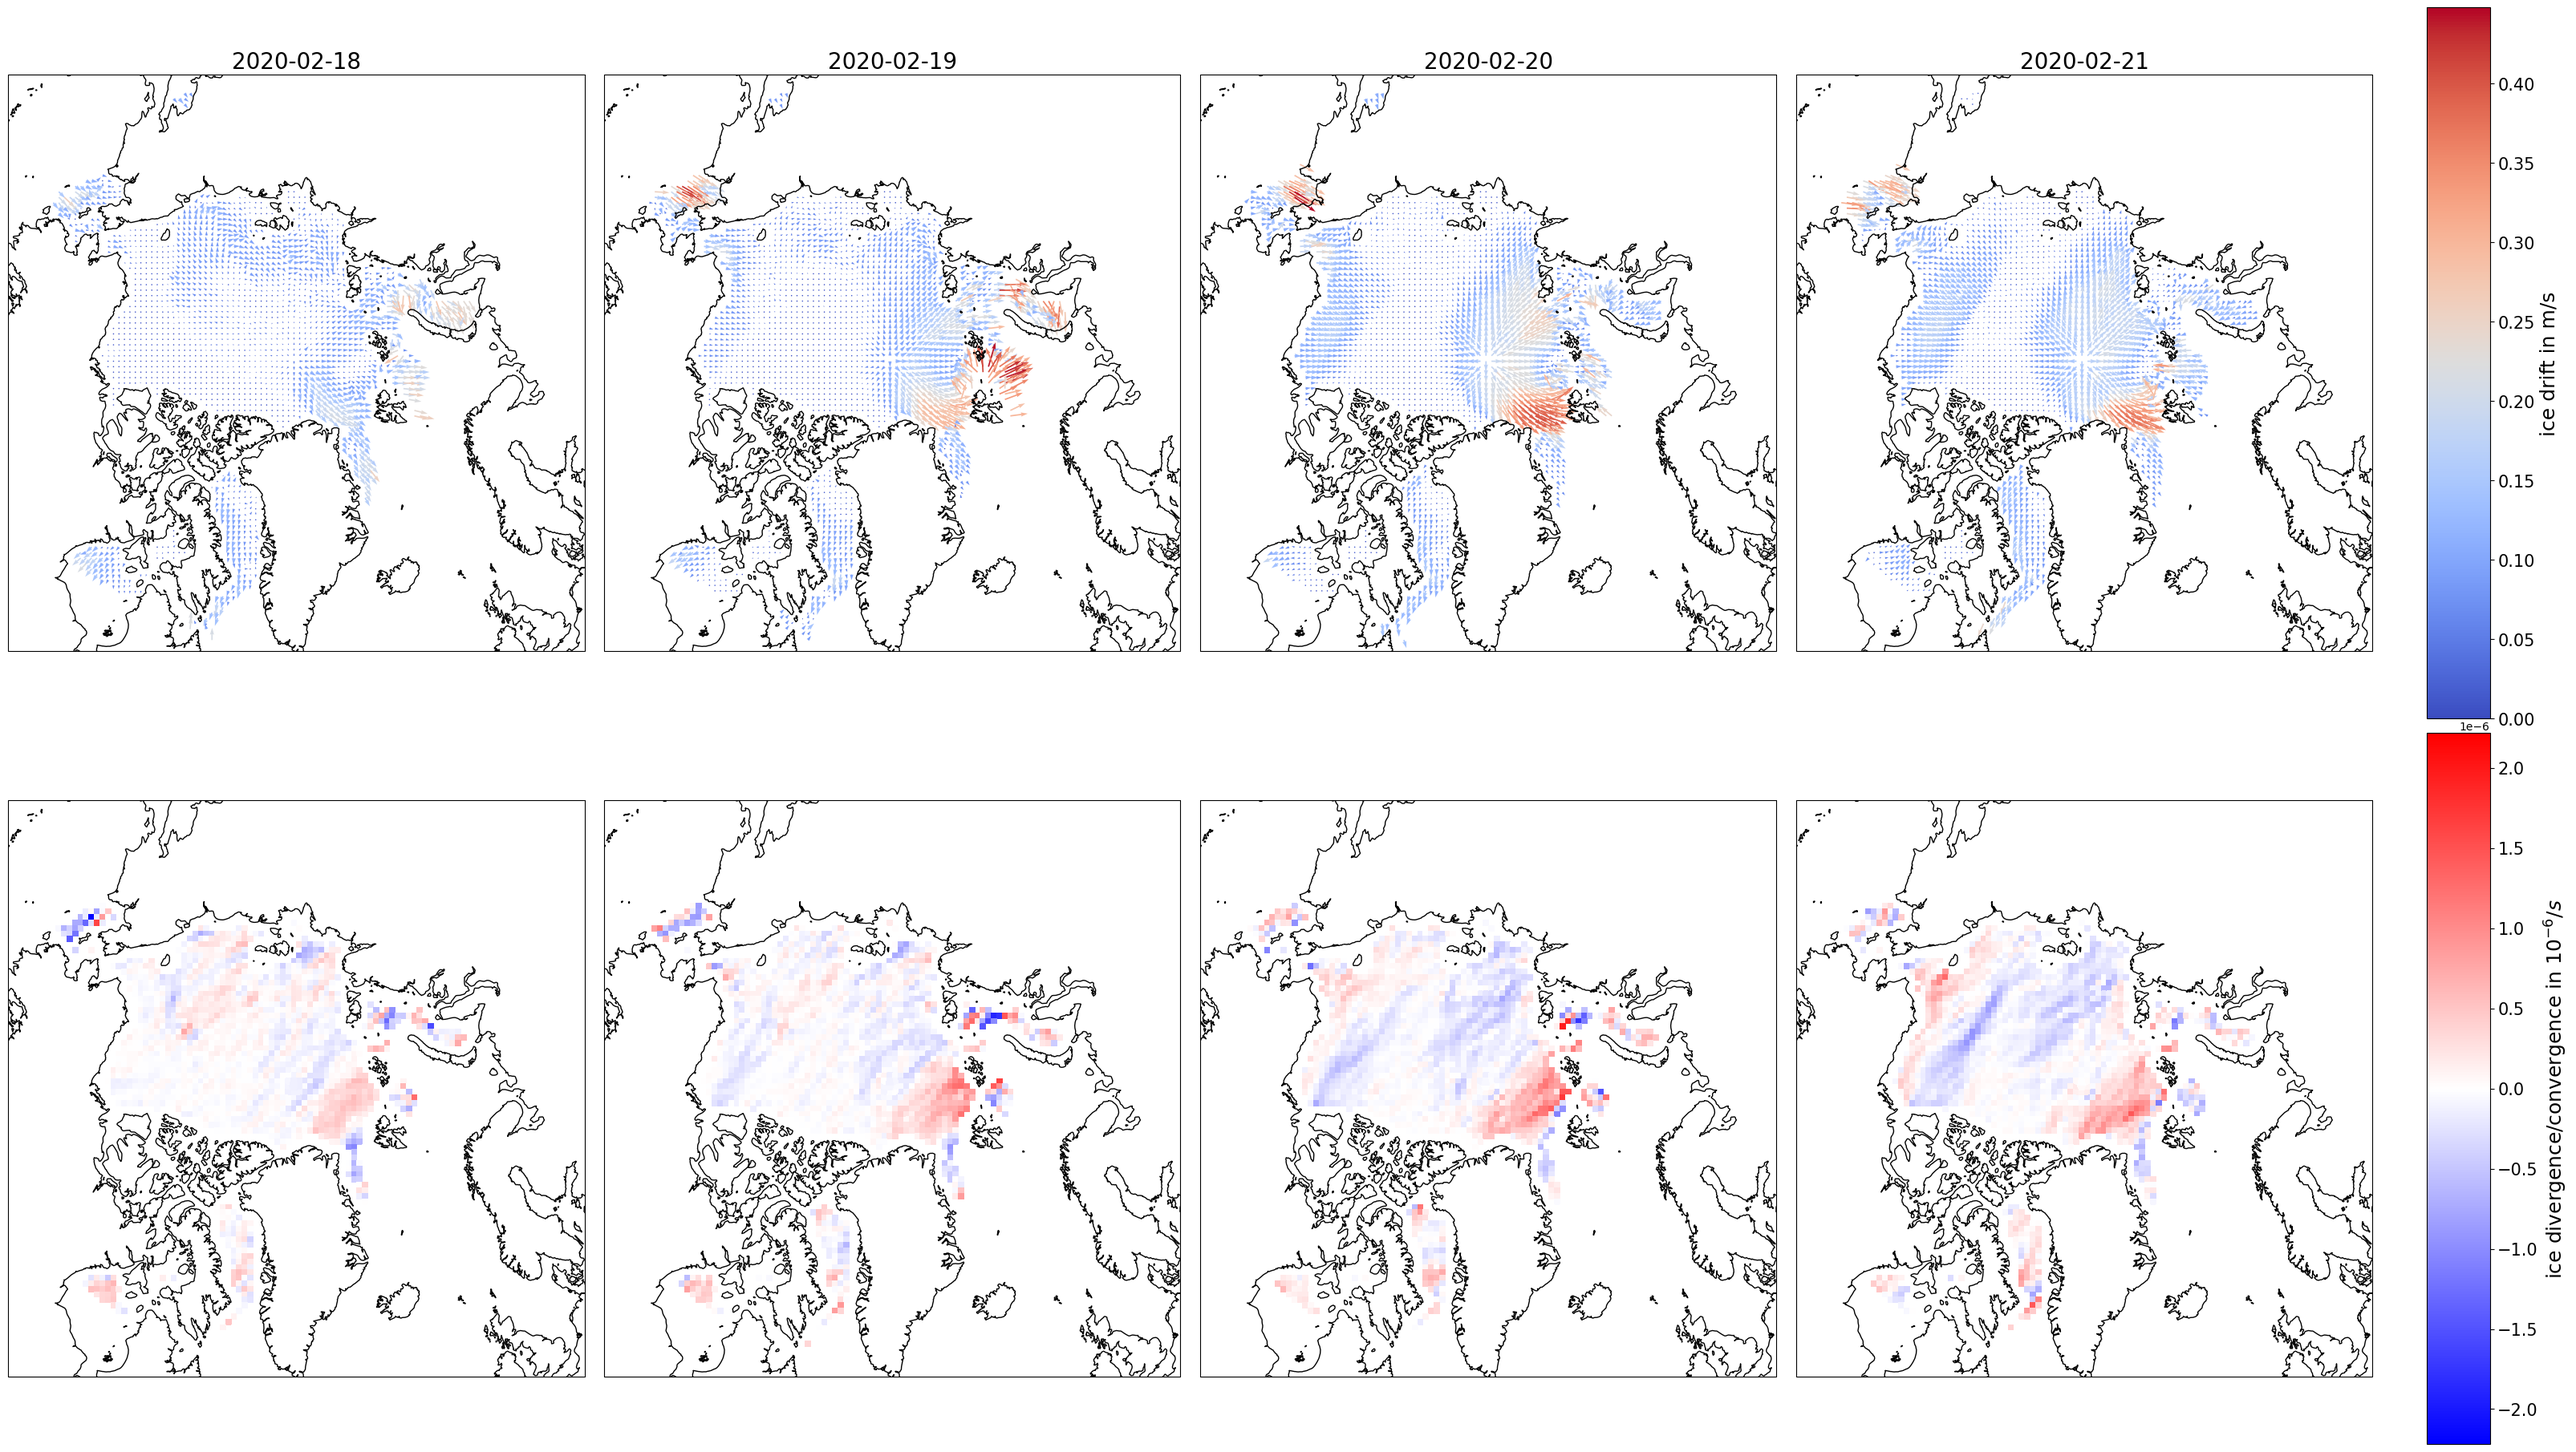
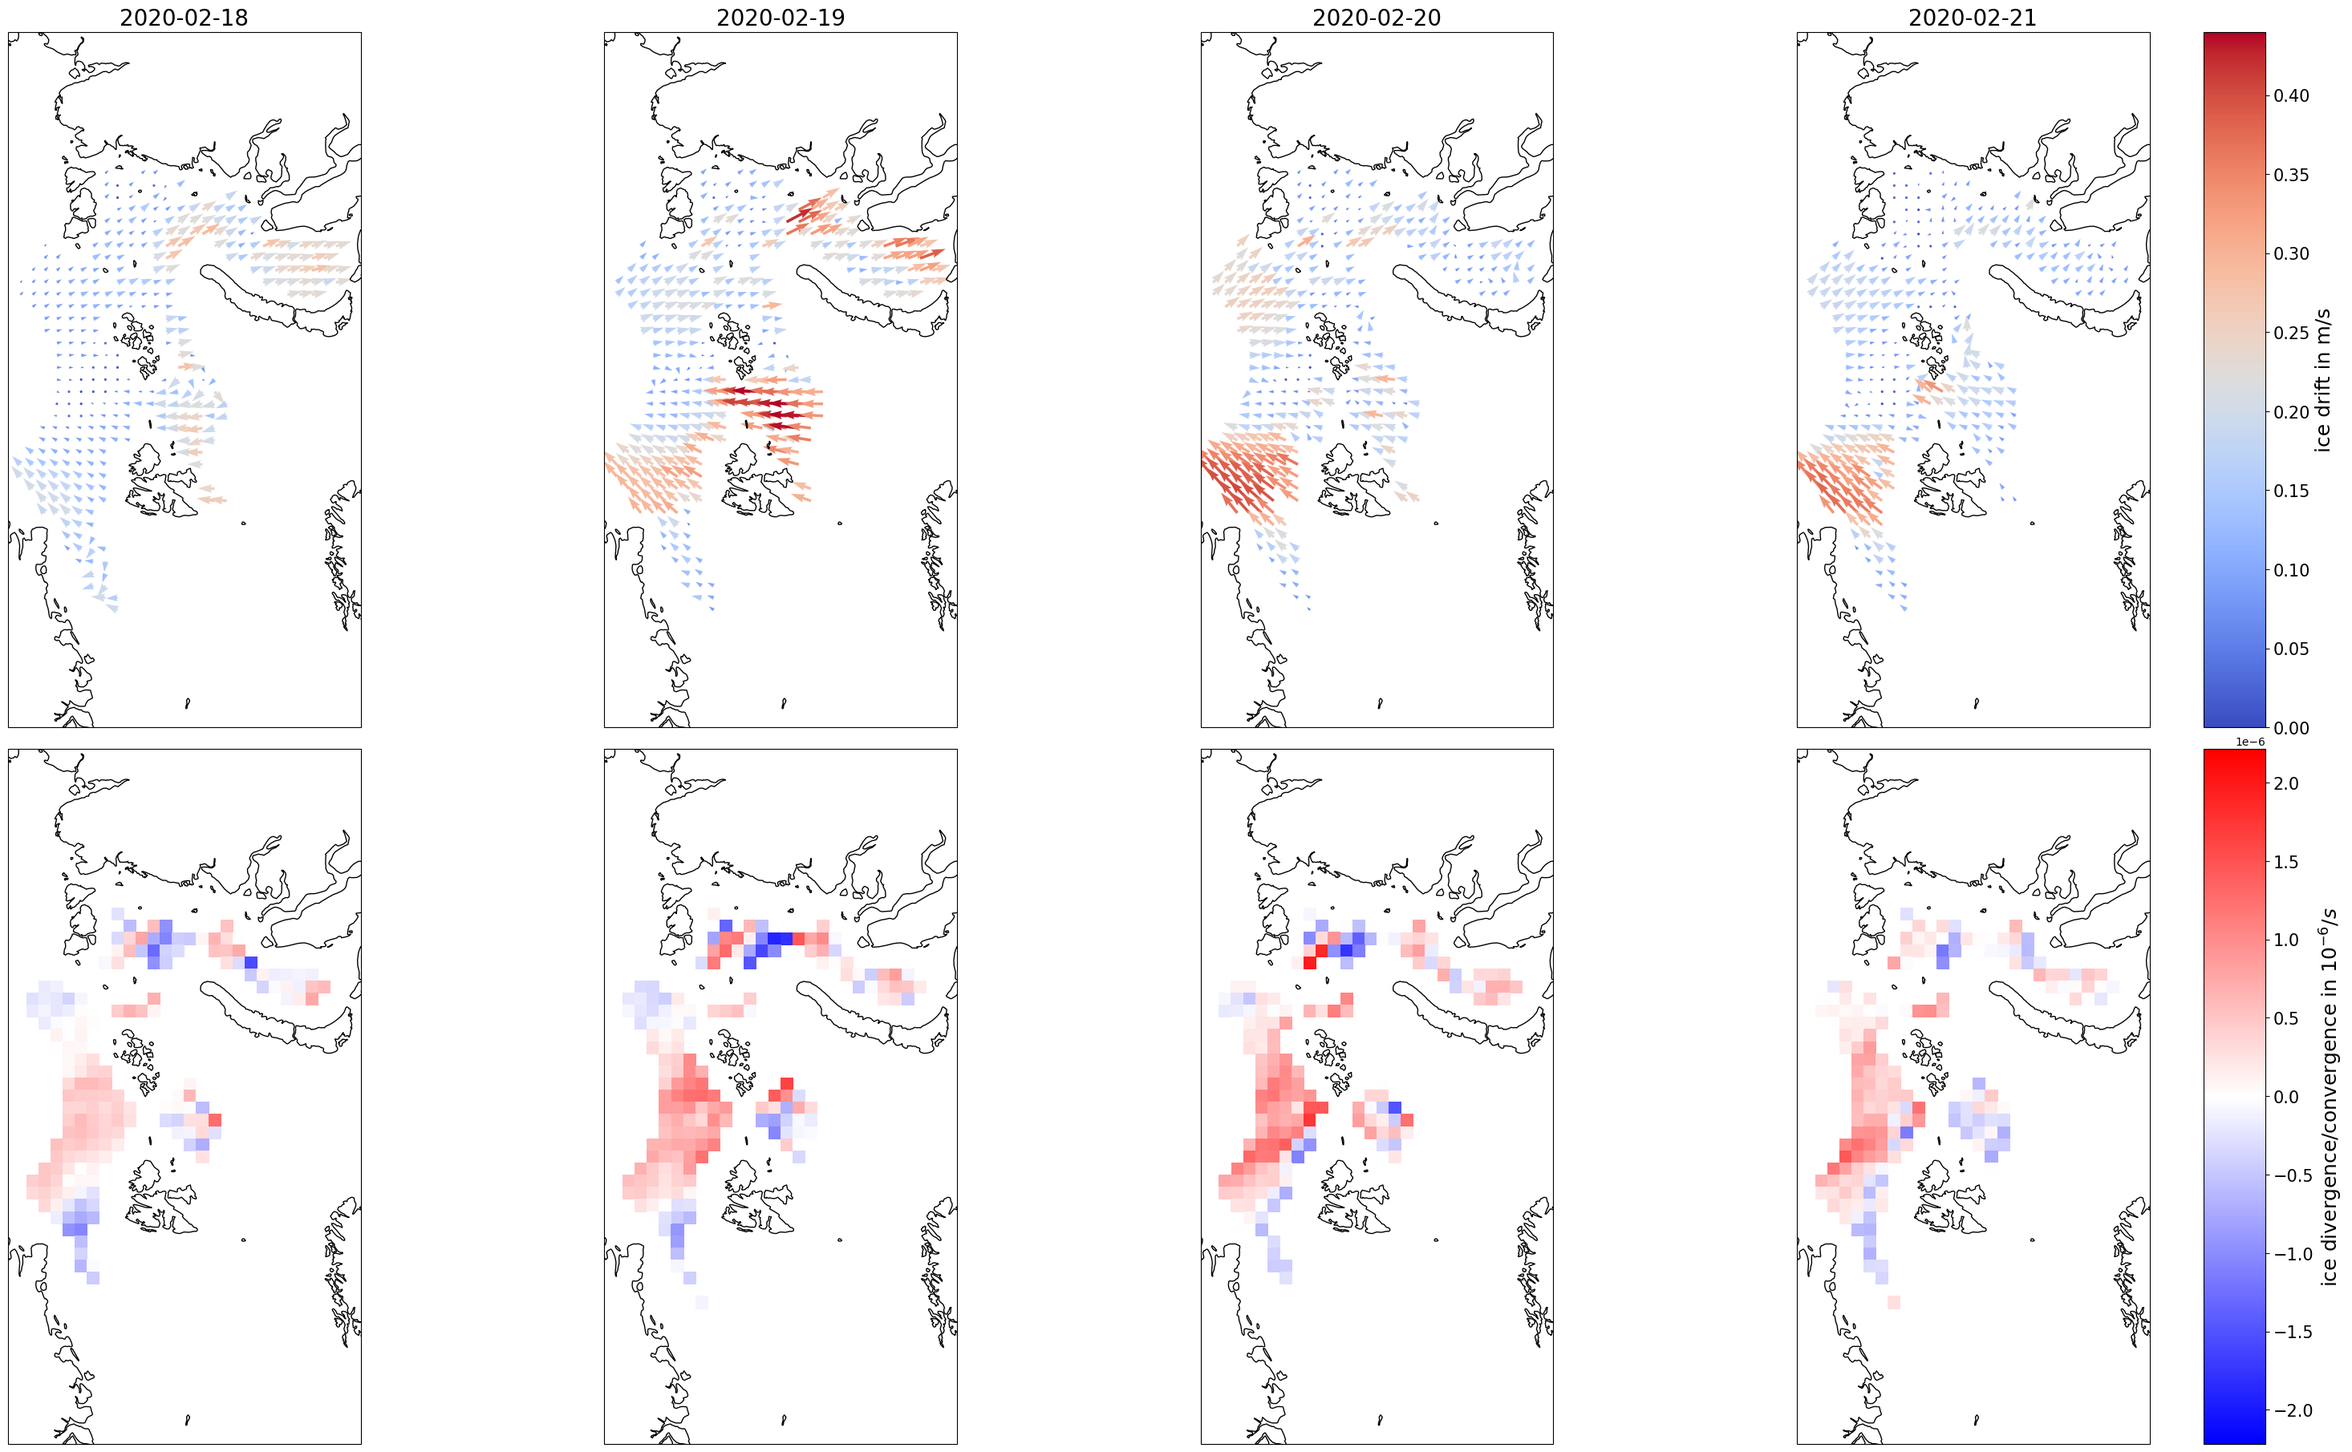
Bug fixed with projection of the ice drift. Added a bunch of new plots

diff --git a/ice_divergence.py b/ice_divergence.py
@@ -130,14 +130,17 @@ class Eumetsat:
     def __init__(self, extent):
         self.drift_width = {ci.barent_extent: .008, ci.arctic_extent: None}
         self.drift_scale = {ci.barent_extent: 5, ci.arctic_extent: 10}
+        cols = {ci.barent_extent: 6, ci.arctic_extent: 4}
+        file_dict = {ci.barent_extent: 'Barent Sea', ci.arctic_extent: 'Arctic'}
 
         self.dir = './data/ice drift/Eumetsat'
         self.path_list = os.listdir(self.dir)
         self.data_sets = {}
         self.extent = extent
         self.nrows = 2
-        self.ncols = 4
+        self.ncols = cols[self.extent]
         self.prod = self.ncols
+        self.file = file_dict[self.extent]
 
         for path in self.path_list:
             ds = nc.Dataset(self.dir + '/' + path)
@@ -146,6 +149,7 @@ class Eumetsat:
 
         dummy = list(self.data_sets.values())[0]
         self.lon, self.lat = dummy['lon'][:], dummy['lat'][:]
+        self.xc, self.yc = 1000*dummy['xc'][:], 1000*dummy['yc'][:]
         self.lonlat_mask = ~lonlat_mask(self.extent, self.lon, self.lat)
 
     def get_disp(self, date):
@@ -211,14 +215,14 @@ class Eumetsat:
         for date, quiv, length in zip(dates, quivs, lengths):
             print(date)
             fig, ax = plot.setup_plot(self.extent)
-            im = ax.quiver(self.lon, self.lat, quiv[0] * factor, quiv[1] * factor, length * factor, scale=10, clim=(None, cap * factor),
-                           transform=ccrs.PlateCarree(), cmap='coolwarm')
+            im = ax.quiver(self.xc, self.yc, quiv[0] * factor, quiv[1] * factor, length * factor, scale=10, clim=(None, cap * factor),
+                           transform=ccrs.NorthPolarStereo(-45), cmap='coolwarm')
             ax.set_title(f'Ice drift in m/s \n {dscience.string_time_to_datetime(date)}', fontsize=25)
             cbar = fig.colorbar(im)
             cbar.ax.tick_params(axis='both', labelsize=25)
-            if save:
-                plot.show_plot(fig, f'./plots/ice divergence/displacement-{dscience.string_time_to_datetime(date)}.png',
-                               False)
+            plt.show()
+            plot.show_plot(fig, f'./plots/ice divergence/displacement-{dscience.string_time_to_datetime(date)}.png',
+                           save)
 
     def setup_plot(self):
         # create figure and base map
@@ -229,7 +233,6 @@ class Eumetsat:
             a.coastlines(resolution='50m')
             a.set_extent(self.extent, crs=ccrs.PlateCarree())
         return fig, ax
-
 
     def plot_quiver_wind(self, dates):
         quivs = []
@@ -260,8 +263,8 @@ class Eumetsat:
             fig, axs = self.setup_plot()
             print(i)
             for j, (ax, quiv, length) in enumerate(zip(axs[0], quivs[i * 6:i * 6 + 7], lengths[i * 6:i * 6 + 7])):
-                im = ax.quiver(self.lon, self.lat, quiv[0] * factor, quiv[1] * factor, length * factor, scale=5,
-                               clim=(0, q_cap * factor), transform=ccrs.PlateCarree(), cmap='coolwarm', width=.008)
+                im = ax.quiver(self.xc, self.yc, quiv[0] * factor, quiv[1] * factor, length * factor, scale=5,
+                               clim=(0, q_cap * factor), transform=ccrs.NorthPolarStereo(-45), cmap='coolwarm', width=.008)
                 ax.set_title(f'{dscience.string_time_to_datetime(dates[6 * i + j])}', fontsize=20)
                 print(dates[6 * i + j])
             cbar = fig.colorbar(im, ax=axs[0])
@@ -276,7 +279,7 @@ class Eumetsat:
             cbar.set_label('wind in m/s', size=18)
             cbar.ax.tick_params(labelsize=15)
 
-            plot.show_plot(fig, f'./plots/ice divergence/drift_wind{dates[i * 6]}_{dates[i * 6 + 5]}.png',
+            plot.show_plot(fig, f'./plots/ice divergence/{self.file}/drift_wind{dates[i * 6]}_{dates[i * 6 + 5]}.png',
                            False)
 
     def plot_quiver_div(self, dates):
@@ -298,12 +301,11 @@ class Eumetsat:
 
         for i in range(int(len(dates)/self.ncols)):
             fig, axs = self.setup_plot()
-            print(i)
             begin, end = i*self.prod, i*self.prod+self.prod + 1
             for j, (ax, quiv, length) in enumerate(zip(axs[0], quivs[begin:end], lengths[begin:end])):
-                im = ax.quiver(self.lon, self.lat, quiv[0] * factor, quiv[1] * factor, length * factor,
+                im = ax.quiver(self.xc, self.yc, quiv[0] * factor, quiv[1] * factor, length * factor,
                                scale=self.drift_scale[self.extent], width=self.drift_width[self.extent],
-                               clim=(0, q_cap * factor), transform=ccrs.PlateCarree(), cmap='coolwarm')
+                               clim=(0, q_cap * factor), transform=ccrs.NorthPolarStereo(-45), cmap='coolwarm')
                 ax.set_title(f'{dscience.string_time_to_datetime(dates[self.prod * i + j])}', fontsize=20)
                 print(dates[self.prod * i + j])
             cbar = fig.colorbar(im, ax=axs[0])
@@ -316,18 +318,111 @@ class Eumetsat:
             cbar = fig.colorbar(im, ax=axs[1])
             cbar.set_label(r'ice divergence/convergence in $10^{-6}/s$', size=18)
             cbar.ax.tick_params(labelsize=15)
-            plot.show_plot(fig, f'./plots/ice divergence/divergence_drift_arctic'
+            plot.show_plot(fig, f'./plots/ice divergence/{self.file}/divergence_drift_'
+                                f'{dates[begin]}_{dates[begin + self.prod - 1]}.png', False)
+
+    def plot_div_leads(self, dates, new=False):
+        divs = []
+        lead = []
+        msls = []
+        d_cap = 0
+        im = None
+        lon, lat = leads.CoordinateGrid().lon, leads.CoordinateGrid().lat
+        m_lon, m_lat = leads.Era5('msl').lon, leads.Era5('msl').lat
+
+        for date in dates:
+            msl = leads.Era5('msl').get_variable(date)
+            div = self.ice_div(date)
+            d_cap = max([d_cap, abs(div.min()), abs(div.max())])
+            divs.append(div)
+            msls.append(msl)
+
+            if new:
+                lead.append(leads.Lead(date).new_leads())
+                path = 'newlead'
+            else:
+                lead.append(leads.Lead(date).lead_data * 100)
+                path = 'lead'
+
+        for i in range(int(len(dates)/self.ncols)):
+            fig, axs = self.setup_plot()
+            begin, end = i * self.prod, i * self.prod + self.prod + 1
+
+            for j, (ax, l, msl) in enumerate(zip(axs[0], lead[begin: end], msls[begin: end])):
+                print(dates[self.prod * i + j])
+                cim = ax.contour(m_lon, m_lat, msl, transform=ccrs.PlateCarree(), cmap='Oranges_r', levels=10)
+                ax.clabel(cim, inline=True, fontsize=15, inline_spacing=10)
+                im = ax.pcolormesh(lon, lat, l, transform=ccrs.PlateCarree(), cmap='cool', vmin=0, vmax=100)
+                ax.set_title(f'{dscience.string_time_to_datetime(dates[self.prod * i + j])}', fontsize=20)
+            cbar = fig.colorbar(im, ax=axs[0])
+            cbar.set_label(f'{path} in %', size=18)
+            cbar.ax.tick_params(labelsize=15)
+            for j, (ax, div) in enumerate(zip(axs[1], divs[begin:end])):
+                im = ax.pcolormesh(self.lon, self.lat, div, transform=ccrs.PlateCarree(), vmax=d_cap, vmin=-d_cap,
+                                   cmap='bwr')
+            cbar = fig.colorbar(im, ax=axs[1])
+            cbar.set_label(r'ice divergence/convergence in $10^{-6}/s$', size=18)
+            cbar.ax.tick_params(labelsize=15)
+            plot.show_plot(fig, f'./plots/ice divergence/{self.file}/divergence_{path}_'
+                                f'{dates[begin]}_{dates[begin + self.prod - 1]}.png', False)
+
+    def plot_drift_leads(self, dates, new=False):
+        quivs = []
+        lead = []
+        msls = []
+        lengths = []
+        q_cap = 0
+        im = None
+        lon, lat = leads.CoordinateGrid().lon, leads.CoordinateGrid().lat
+        m_lon, m_lat = leads.Era5('msl').lon, leads.Era5('msl').lat
+        factor = 1000 / 172800
+
+        for date in dates:
+            msl = leads.Era5('msl').get_variable(date)
+            quiv = self.get_disp(date)
+            msls.append(msl)
+            quivs.append(quiv)
+            lengths.append((quiv[0] ** 2 + quiv[1] ** 2) ** .5)
+            q_cap = max([q_cap, lengths[-1].max()])
+
+            if new:
+                lead.append(leads.Lead(date).new_leads())
+                path = 'newlead'
+            else:
+                lead.append(leads.Lead(date).lead_data*100)
+                path = 'lead'
+
+        for i in range(int(len(dates) / self.ncols)):
+            fig, axs = self.setup_plot()
+            begin, end = i * self.prod, i * self.prod + self.prod + 1
+
+            for j, (ax, l, msl) in enumerate(zip(axs[0], lead[begin: end], msls[begin: end])):
+                print(dates[self.prod * i + j])
+                cim = ax.contour(m_lon, m_lat, msl, transform=ccrs.PlateCarree(), cmap='Oranges_r', levels=10)
+                im = ax.pcolormesh(lon, lat, l, transform=ccrs.PlateCarree(), cmap='cool', vmin=0, vmax=100)
+                ax.clabel(cim, inline=True, fontsize=15, inline_spacing=10)
+                ax.set_title(f'{dscience.string_time_to_datetime(dates[self.prod * i + j])}', fontsize=20)
+            cbar = fig.colorbar(im, ax=axs[0])
+            cbar.set_label(f'{path} fraction in %', size=18)
+            cbar.ax.tick_params(labelsize=15)
+
+            for j, (ax, quiv, length) in enumerate(zip(axs[1], quivs[i * 6:i * 6 + 7], lengths[i * 6:i * 6 + 7])):
+                im = ax.quiver(self.xc, self.yc, quiv[0] * factor, quiv[1] * factor, length * factor, scale=5,
+                               clim=(0, q_cap * factor), transform=ccrs.NorthPolarStereo(-45), cmap='coolwarm',
+                               width=.008)
+            cbar = fig.colorbar(im, ax=axs[1])
+            cbar.set_label(r'ice drift in m/s', size=18)
+            cbar.ax.tick_params(labelsize=15)
+
+            plot.show_plot(fig, f'./plots/ice divergence/{self.file}/drift_{path}_'
                                 f'{dates[begin]}_{dates[begin + self.prod - 1]}.png', False)
 
 
 
 
-
-
-
-
 if __name__ == '__main__':
-    Eumetsat(ci.arctic_extent).plot_quiver_div(dscience.time_delta('20200210', '20200229'))
+    Eumetsat(ci.arctic_extent).plot_drift_leads(dscience.time_delta('20200210', '20200229'), True)
+    #Eumetsat(ci.arctic_extent).plot_drift_leads(dscience.time_delta('20200210', '20200229'), False)
 
-
-    # print(np.gradient(numpy_array))
+    #Eumetsat(ci.arctic_extent).plot_div_leads(dscience.time_delta('20200210', '20200229'), True)
+    #Eumetsat(ci.arctic_extent).plot_div_leads(dscience.time_delta('20200210', '20200229'), False)

diff --git a/plot.py b/plot.py
@@ -142,8 +142,7 @@ class RegionalPlot:
 
 def setup_plot(extent):
     # create figure and base map
-    fig, ax = plt.subplots()
-    fig.set_size_inches(32, 18)
+    fig, ax = plt.subplots(figsize=(10,10))
     ax = plt.axes(projection=ccrs.NorthPolarStereo(-45))
     ax.gridlines()
     ax.set_global()

diff --git a/leads.py b/leads.py
@@ -200,10 +200,9 @@ if __name__ == '__main__':
     #Era5('msl')
     #Era5('siconc')
     #Era5('t2m')
-    #Era5('wind_quiver').get_quiver('20200101')
+    Era5('wind_quiver')
     #Era5('cyclone_occurence')
 
-    Lead('20200217')
 
     pass
 
